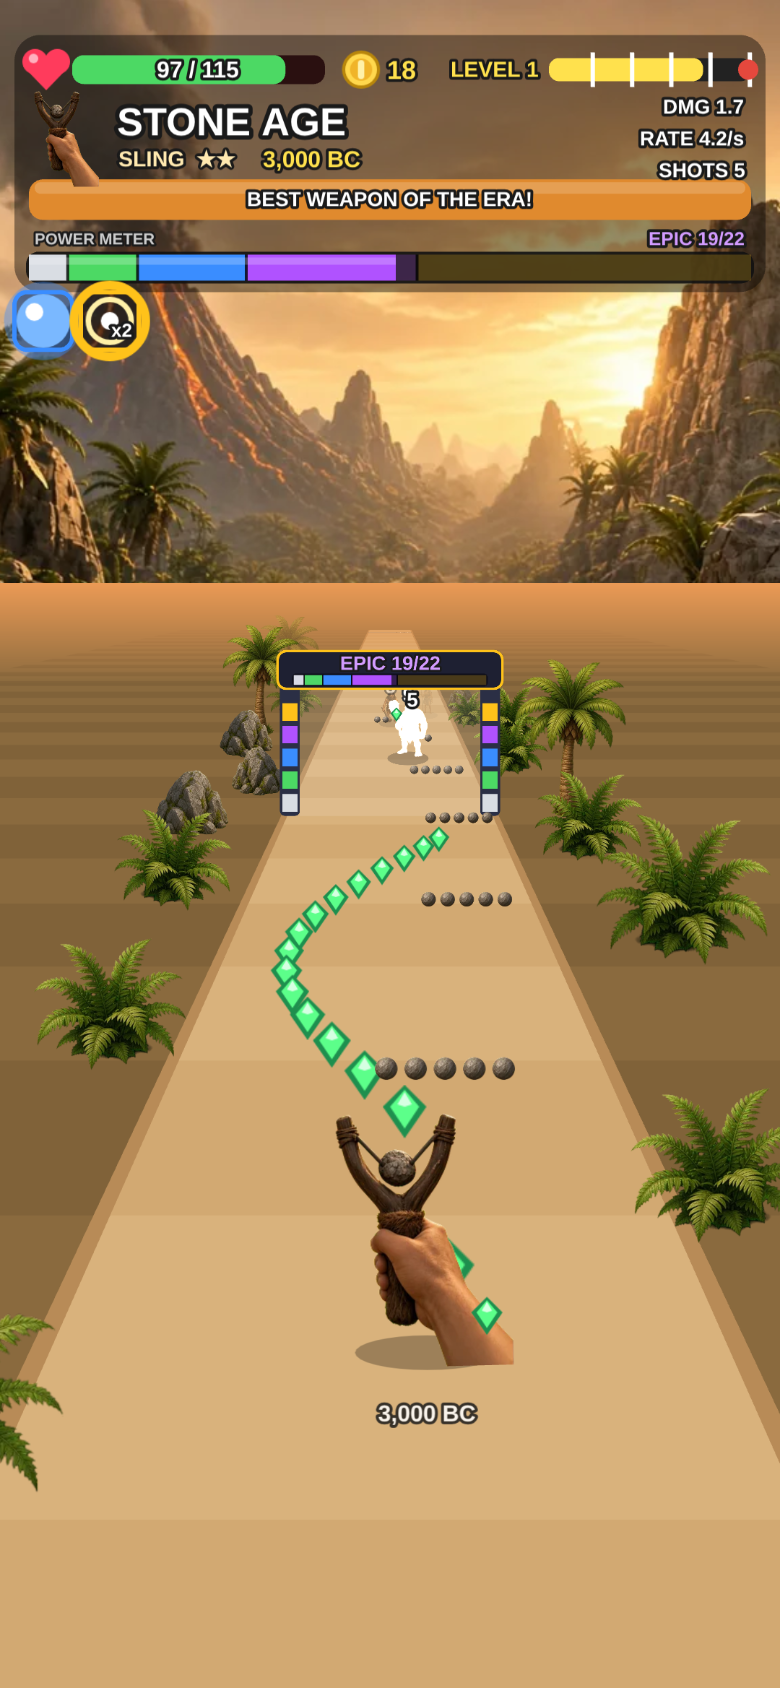
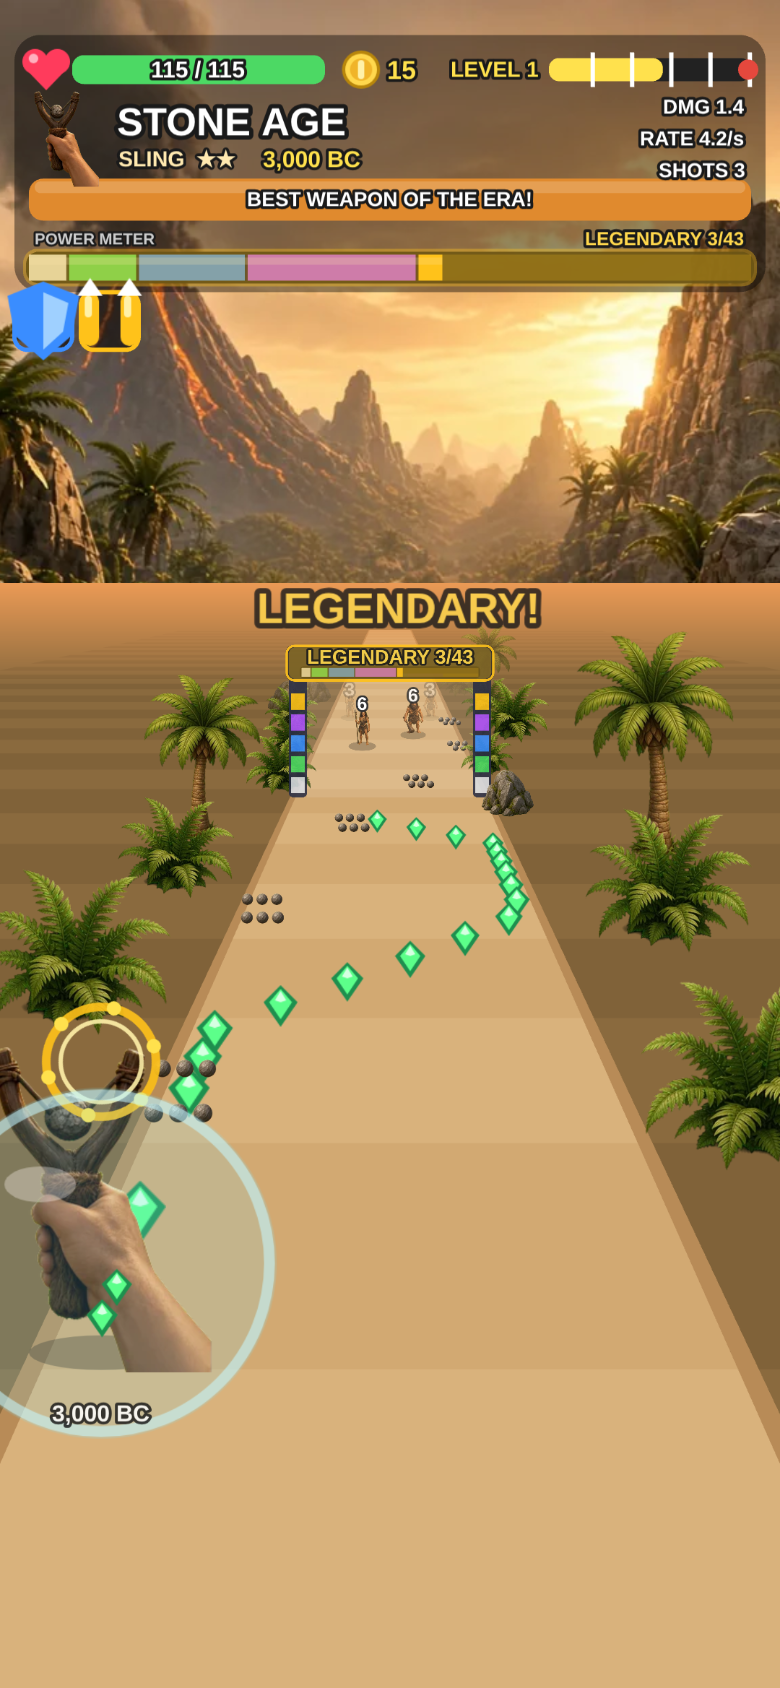
Stone Age polish: throw swing for Thrown Rock (big spinning painted rock launched from the hand), sling pull-and-release, 1.5x painted weapon hands, checkpoint arch fades when close, softer Mammoth hit tint (visual only)

diff --git a/src/scenes/Game.js b/src/scenes/Game.js
@@ -13,6 +13,7 @@ import { runMods, UPGRADES, upgCost } from '../upgrades.js';
 import { Sound } from '../audio.js';
 import { BossMethods, BOSS_HOME_Z, LANES } from '../bosses.js';
 import { ScreenMethods } from '../screens.js';
+import { texScale as texScaleOf } from './Boot.js';
 import { style, col } from '../ui.js';
 
 // ---- layout / fake-3D projection ----
@@ -279,11 +280,16 @@ export class GameScene extends Phaser.Scene {
     const spacing = e.spacing * Math.min(1.3, this.pu.size);
     const volleys = 1 + this.pu.double; // Double Shot: extra volleys just behind the first
     const muzzles = [0, ...this.twinOffsets()]; // Twin Weapon copies fire the same volley
+    const style = this.throwStyle();
+    if (style && !this.simulating) { this.throwAt = this.time; this.throwDur = Math.min(0.3, 0.8 / Math.max(0.1, this.rate)); }
     for (const mx of muzzles) {
       for (let v = 0; v < volleys; v++) {
         for (let i = 0; i < n; i++) {
           const x = this.px + mx + (i - (n - 1) / 2) * spacing + (v % 2 ? spacing / 2 : 0);
-          this.spawnProj({ x, z: 40 - v * 45, speed: e.pspeed, r: e.pr * this.pu.size, dmg: this.dmg, pierce: this.pu.pierce, tex: 'p_' + e.proj, sc: this.pu.size });
+          const q = { x, z: 40 - v * 45, speed: e.pspeed, r: e.pr * this.pu.size, dmg: this.dmg, pierce: this.pu.pierce, tex: 'p_' + e.proj, sc: this.pu.size };
+          // painted Stone Age: a thrown rock is the big spinning painted stone, launched from the hand
+          if (style) { if (style === 'throw') { q.tex = 'p_rock'; q.sc *= 2.4; } else q.sc *= 1.5; q.spin = true; q.lift = -this.lookTipY * (style === 'throw' ? 0.85 : 0.7); }
+          this.spawnProj(q);
         }
       }
     }
@@ -580,11 +586,13 @@ export class GameScene extends Phaser.Scene {
         for (const im of o.imgs) { if (o.flash > 0) im.setTintFill(0xffffff); else im.setTint(o.tint); }
         continue;
       }
-      const fade = o.z > 1500 ? Phaser.Math.Clamp((SPAWN_Z - o.z) / 400, 0, 1) : 1;
+      let fade = o.z > 1500 ? Phaser.Math.Clamp((SPAWN_Z - o.z) / 400, 0, 1) : 1;
+      // a checkpoint arch turns see-through as you close in, so gates/enemies behind it stay readable
+      if (o.type === 'checkpoint' && o.z < 1100) fade = Math.min(fade, Phaser.Math.Clamp(0.45 + (o.z - 250) / 1700, 0.45, 1));
       o.c.setAlpha(fade);
       if (o.img && o.type !== 'gate' && o.type !== 'checkpoint') {
         if (o.type === 'crate') { if (o.flash > 0) o.img.setTint(0xbff6ff); else o.img.clearTint(); continue; }
-        if (o.flash > 0) { if (o.type === 'boss') o.img.setTint(0xffb0a0); else o.img.setTintFill(0xffffff); }
+        if (o.flash > 0) { if (o.type === 'boss') o.img.setTint(0xffe2d6); else o.img.setTintFill(0xffffff); }
         else if (o.charger) o.img.setTint(o.ch && o.ch.phase === 'aim' && Math.sin(this.time * 30) > 0 ? 0xffffff : (o.painted ? 0xffb4a8 : 0xff7a6a));
         else if (o.size > 1.3 && o.type === 'enemy' && !o.painted) o.img.setTint(0xffd0c0);
         else o.img.clearTint();
@@ -602,7 +610,9 @@ export class GameScene extends Phaser.Scene {
     for (const p of this.projs) {
       if (!p.img) p.img = this.add.image(0, 0, p.tex);
       const pr = project(p.x, p.z);
-      p.img.setPosition(pr.x, pr.y - 58 * pr.s).setScale(TK * pr.s * (p.sc || 1)).setDepth(10 + FAR - p.z);
+      // lift: launched from the hand, easing down to the normal flight line over ~350 units
+      const lift = p.lift ? p.lift * Phaser.Math.Clamp(1 - (p.z - 40) / 350, 0, 1) : 0;
+      p.img.setPosition(pr.x, pr.y - 58 * pr.s - lift).setScale(TK * pr.s * (p.sc || 1)).setDepth(10 + FAR - p.z);
       if (p.spin) p.img.rotation += 0.35;
     }
     this.renderPowers(project, FAR);
@@ -612,7 +622,50 @@ export class GameScene extends Phaser.Scene {
     this.weaponImg.y = -6 + this.recoil;
     this.weaponImg.angle = Phaser.Math.Clamp((this.tx - this.px) * 0.12, -12, 12);
     this.renderWeaponLook();
+    this.renderThrow();
     this.updateHud(false);
+  }
+
+  // Visual-only shot motion for painted Stone Age weapons: 'throw' (hand swings forward, rock
+  // leaves the hand) and 'sling' (pull back, snap forward). Duration follows the fire rate.
+  throwStyle() {
+    const k = this.weapon?.key;
+    if (k === 'rock' && texScaleOf(this, 'weapon_rock') !== 1) return 'throw';
+    if (k === 'stone' && texScaleOf(this, 'weapon_stone') !== 1) return 'sling';
+    return null;
+  }
+
+  renderThrow() {
+    const style = this.throwStyle();
+    const ims = [this.weaponImg, ...(this.twinImgs || []).map((tw) => tw.list[1]).filter(Boolean)];
+    const u = style && this.throwAt != null ? (this.time - this.throwAt) / this.throwDur : 1;
+    for (const im of ims) {
+      if (im.baseSc == null) im.baseSc = im.scaleY;
+      if (im.scaleY !== im.lastSc) im.baseSc = im.scaleY; // refreshWeaponLook / evolve tweens set a new base
+      let sy = 1, sx = 1, dy = 0, ang = 0, crop = 0;
+      if (u < 1) {
+        if (style === 'throw') {
+          // 0-.3 snap forward (arm extends away: foreshortened and up), .3-1 ease back
+          const f = u < 0.3 ? Phaser.Math.Easing.Cubic.Out(u / 0.3) : 1 - Phaser.Math.Easing.Sine.InOut((u - 0.3) / 0.7);
+          sy = 1 - 0.3 * f; sx = 1 - 0.08 * f; dy = -8 * f; ang = 9 * f;
+          // swap to the open-hand art (rock released) until the arm is most of the way back, if present
+          if (this.textures.exists('weapon_rock_open')) crop = u > 0.12 && u < 0.8 ? 1 : 0;
+        } else {
+          // sling: quick pull toward you, then snap past rest and settle
+          const f = u < 0.25 ? -Phaser.Math.Easing.Quadratic.Out(u / 0.25) : u < 0.5 ? -1 + 1.6 * Phaser.Math.Easing.Quadratic.In((u - 0.25) / 0.25) : 0.6 * (1 - Phaser.Math.Easing.Sine.Out((u - 0.5) / 0.5));
+          sy = 1 + 0.07 * -f; sx = sy; dy = -22 * f; ang = 0;
+        }
+      }
+      const s0 = im.baseSc;
+      im.setScale(s0 * sx, s0 * sy);
+      im.lastSc = im.scaleY;
+      im.y = (im === this.weaponImg ? im.y : -6) + dy;
+      if (im === this.weaponImg) im.angle += ang; else im.angle = ang;
+      if (style === 'throw' && this.textures.exists('weapon_rock_open')) {
+        const want = crop ? 'weapon_rock_open' : 'weapon_rock';
+        if (im.texture.key !== want) im.setTexture(want);
+      }
+    }
   }
 
   drawTrack() {

diff --git a/src/scenes/Boot.js b/src/scenes/Boot.js
@@ -556,12 +556,14 @@ function icons(scene) {
 
 // Painted era art (see ART.md). Each file replaces the code-drawn texture of the same game key,
 // so all existing sprites pick it up; if a file is missing the code-drawn art stays as fallback.
+// disp: extra on-screen size (painted weapon hands are drawn bigger, like the mockup).
 // scale: the file is drawn at this multiple of the code texture's size (HD), the game divides it out.
 const ERA_ART = {
   stone: [
     ['enemy', 'enemy_stone'], ['enemy_b', 'enemy_stone_b'], ['enemy_big', 'enemy_stone_big'], ['enemy_charger', 'enemy_stone_charger'],
     ['block', 'block_stone'], ['crate', 'crate_stone'], ['boss', 'boss_stone', 2],
-    ['weapon_rock', 'weapon_rock'], ['weapon_sling', 'weapon_stone'],
+    // add ['weapon_rock_open', 'weapon_rock_open', 1, 1.5] once art/rockhand_open exists (empty hand at release)
+    ['weapon_rock', 'weapon_rock', 1, 1.5], ['weapon_sling', 'weapon_stone', 1, 1.5],
     ['p_pebble', 'p_pebble'], ['p_rock', 'p_rock'], ['bp_rock', 'bp_rock'],
     ['bg', 'bg_stone'], ['decor_fern', 'decor_stone_fern'], ['decor_rocks', 'decor_stone_rocks'], ['decor_palm', 'decor_stone_palm'],
   ],
@@ -583,13 +585,13 @@ export class BootScene extends Phaser.Scene {
     misc(this);
     bosses(this);
     icons(this);
-    for (const list of Object.values(ERA_ART)) for (const [, key, scale] of list) {
+    for (const list of Object.values(ERA_ART)) for (const [, key, scale, disp] of list) {
       const k = 'art_' + key;
       if (!this.textures.exists(k)) continue;
       const img = this.textures.get(k).getSourceImage();
       if (this.textures.exists(key)) this.textures.remove(key);
       const t = this.textures.addImage(key, img);
-      t.customData.scale = 1 / (scale || 1);
+      t.customData.scale = (disp || 1) / (scale || 1);
       this.textures.remove(k);
     }
     this.scene.start('game');
@@ -597,5 +599,5 @@ export class BootScene extends Phaser.Scene {
 }
 export const TEX_K = K;
 
-// size multiplier for a texture key: 0.5 for HD art drawn at 2x, else 1
+// size multiplier for a texture key: disp / HD factor (e.g. 0.5 for 2x boss art), else 1
 export const texScale = (scene, key) => scene.textures.get(key)?.customData?.scale || 1;

diff --git a/src/crates.js b/src/crates.js
@@ -1,3 +1,4 @@
+import { texScale } from './scenes/Boot.js';
 import Phaser from 'phaser';
 import { ERAS } from './eras.js';
 import { CRATES, GEMS } from './tuning.js';
@@ -111,7 +112,7 @@ export const CrateMethods = {
     this.twinC.removeAll(true);
     const P = this.pu;
     const key = 'weapon_' + this.weapon.key;
-    const big = Math.min(1.45, Math.pow(P.size, 0.6));
+    const big = Math.min(1.45, Math.pow(P.size, 0.6)) * texScale(this, key);
     this.weaponImg.setTexture(key).setScale(0.5 * big);
     const h = this.weaponImg.height * 0.5 * big * 0.92; // weapon height on screen (origin is near the base)
     this.lookTipY = -6 - h;

diff --git a/art/build_stone.py b/art/build_stone.py
@@ -68,6 +68,8 @@ save(fit(key_green(src('mammoth.jpg')), 1040, 880, fill=0.98), 'boss', q=86)
 # --- weapons: 220x300 box, origin (0.5, 0.92) in game; the hand runs off the bottom edge
 save(fit(key_green(src('sling.jpg')), 220, 300, fill=1.0), 'weapon_sling')
 save(fit(key_green(src('rockhand.jpg')), 220, 300, fill=0.95), 'weapon_rock')
+if os.path.exists(os.path.join(SRC, 'rockhand_open.jpg')):  # optional: hand just after release
+    save(fit(key_green(src('rockhand_open.jpg')), 220, 300, fill=0.95), 'weapon_rock_open')
 # --- props sheet (2x2): crate, boulder, fern, rocks
 props = key_green(src('props.jpg'))
 save(fit(crop_frac(props, 0, 0, .5, .5), 260, 224, fill=0.92), 'crate')
